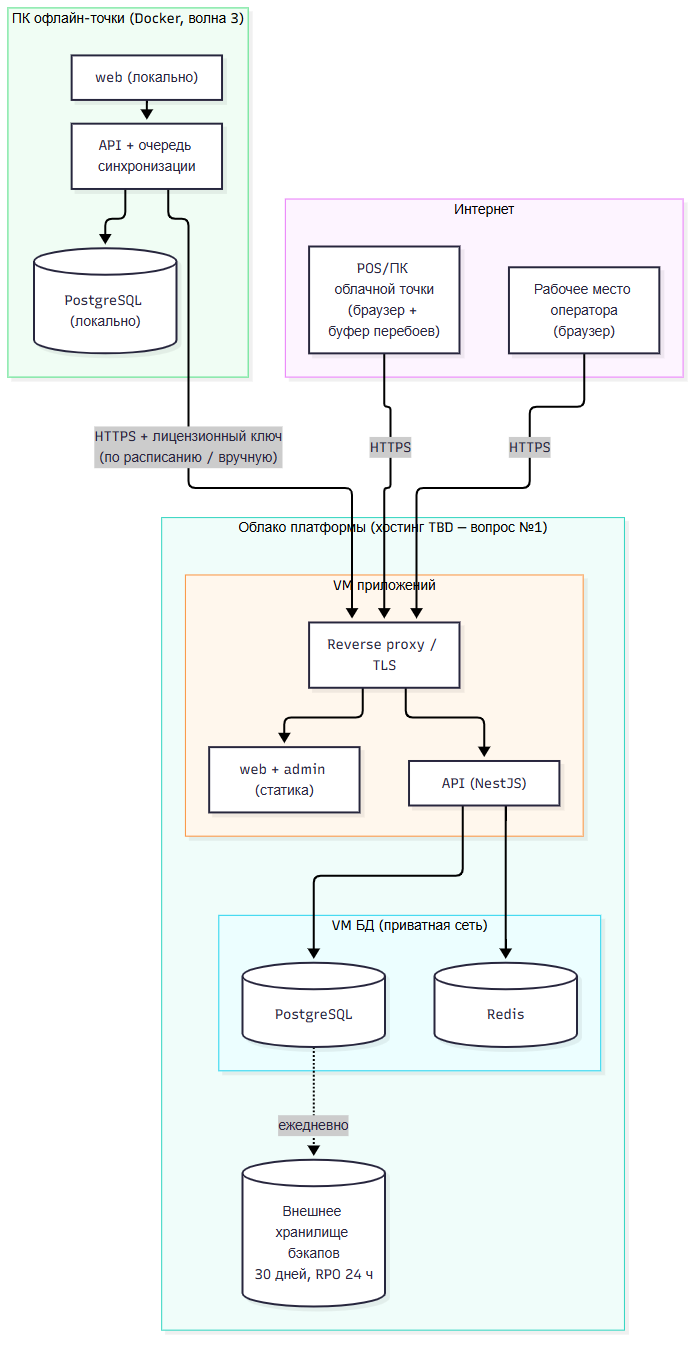
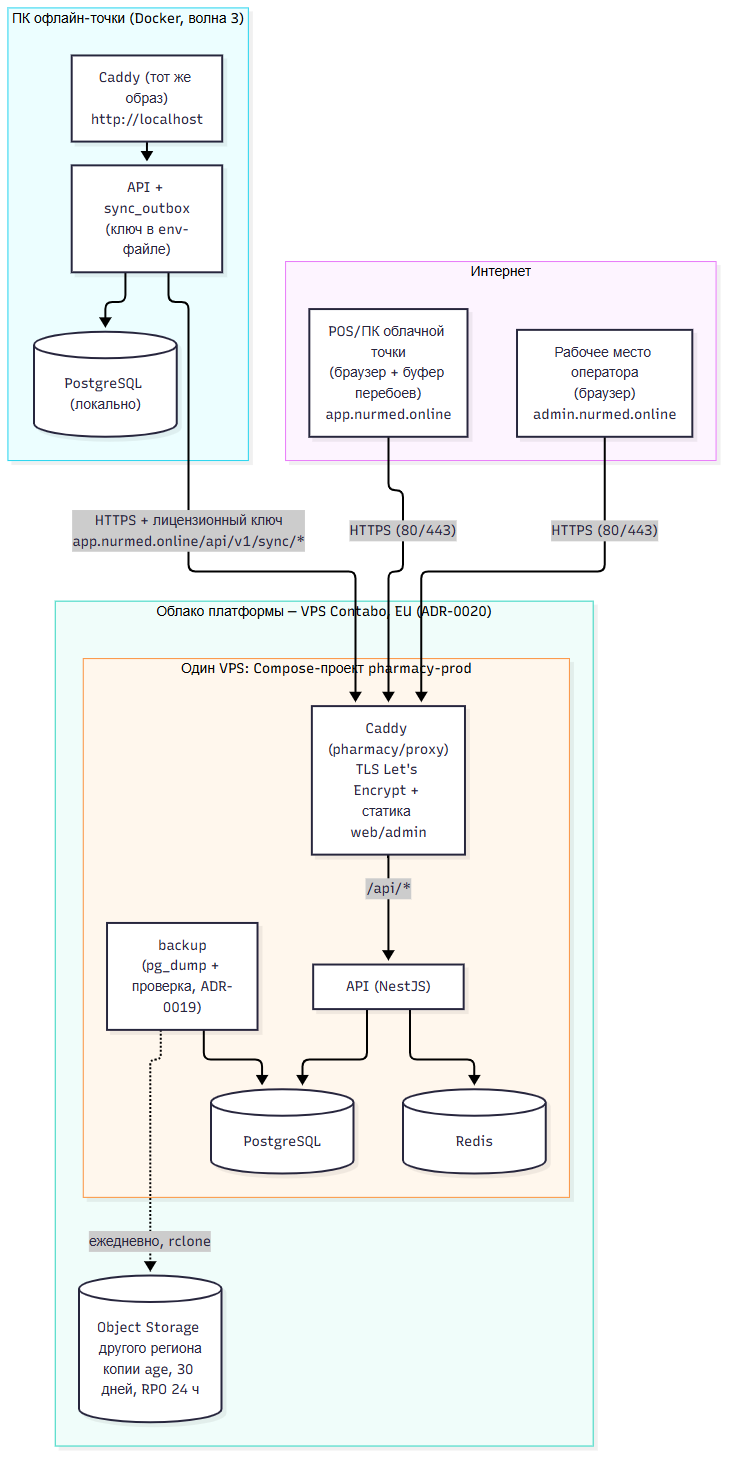
docs: accept ADR-0012 (Caddy) and ADR-0020 (hosting) — APPROVAL, stack.md, C4 deployment

diff --git a/docs/architecture/APPROVAL.md b/docs/architecture/APPROVAL.md
@@ -50,4 +50,6 @@
 | 2026-10-20 | Спецификация `2026-10-20-data-import-design.md` (решения F1–F22): загрузка каталога, начальных остатков точки и поставщиков из `.xlsx` / `.csv` — разбор в браузере, на API типизированные строки, всё или ничего, проверка и загрузка с `Idempotency-Key`, остатки — черновики НО по 500 строк; поправка ADR-0015 — своё чтение `.xlsx` и `.csv` в браузере на `DecompressionStream` и `DOMParser`, без библиотек; поправка модели данных 06 — `import_jobs` хранит только выполненные загрузки (без `status`, `errors` и уникальности по хэшу); журнал `ImportJobs` в `core/imports` | APPROVED | Утверждено архитектором 2026-10-20 вместе со спецификацией; реализация — одним PR |
 | 2026-10-21 | ADR-0019 — резервное копирование облачной БД и спецификация `2026-10-21-db-backups-design.md` (решения B1–B16): ежедневная логическая копия (`pg_dump -Fc` + роли без паролей) сервисом compose `backup` на образе `pharmacy/postgres` в test и prod, проверка каждой копии восстановлением во временном экземпляре, хранение 30 дней в `BACKUP_DIR`, `unhealthy` без проверенной копии 26 ч, защита пустой базы, `stack restore` рядом с переименованием; роль `pharmacy_backup` (LOGIN, BYPASSRLS, `pg_read_all_data`, не суперпользователь) — исключение из правила ADR-0013 «без BYPASSRLS» | APPROVED — accepted | Блокер пилота № 2; копия за пределы хоста и шифрование копий — вместе с хостингом (вопрос № 1), до prod |
 | 2026-10-21 | Спецификация `2026-10-21-pos-offline-limits-design.md` (решения P1–P18): касса PR 3 — пределы буфера (24 ч / 500 операций, ПКУ 8 ч / 20 чеков — параметры сети в `tenant_settings`, в снимке каталога), ПКУ без связи в пределах, остановка операций по возрасту входа кассира, локальный номер чека в смене и код (последние 8 символов id) для поиска при возврате, колонка «Получено» журнала ПКУ, срок хранения рецептов на экране настроек и очистка данных рецептов по сроку (триггер `controlled_sale_records` допускает только очистку трёх колонок, конверты `sync_inbox`); поправка ADR-0008 — досылка буфера под терминалом (device-cookie на четырёх маршрутах буфера, автор держал терминал в момент операции ±5 минут, вход не старше предела буфера, иначе 422 `author_session_missing`); поправка ADR-0013 — первая периодическая задача облака: таймер процесса API раз в час «по тенанту в цикле» (`app/platform/retention`, порты `PrescriptionRetention`, `InboxRetention`); поправка ADR-0015 — уточнение решений 2026-09-30 о пределах, сессии автора, досылке с экрана входа и локальном номере | APPROVED | Архитектор проекта, 2026-10-21 |
+| 2026-10-21 | ADR-0020 — хостинг облачной части на пилоте: один VPS Contabo Cloud VPS 6 (100 ГБ NVMe, EU — Германия) со всем Compose-проектом `pharmacy-prod`, домен `nurmed.online` (`app.`, `admin.`, apex → `app.`), базовая защита хоста, копии БД вне хоста — шифрование `age` и выгрузка `rclone` в Contabo Object Storage другого региона, выкладка образами через `docker save`/`load` до ADR о CD | APPROVED — accepted | Закрывает вопрос № 1 stack.md при условии письменного согласия юриста на хранение данных за пределами РТ (иначе — местный ЦОД той же схемой); дополняет ADR-0019 |
+| 2026-10-21 | ADR-0012 — reverse proxy и статика: Caddy 2.11, web и admin на поддоменах одного домена, статика в образе proxy; решения по спорным моментам — раздел «Принятие (2026-10-21)» ADR | APPROVED — accepted | Принят после выбора хостинга (ADR-0020); реализация — в том же PR |
 | 2026-10-22 | Уточнения по ревью безопасности (дополнение `reviews/2026-10-22-security-review-addendum.md`): ADR-0008, поправка 2026-10-21, п. 2 — у открытия смены под терминалом момент не раньше закрытия последней смены терминала (Z1; У17 спецификации `2026-10-21-pos-offline-limits`); поправка ADR-0013 2026-10-22 — `resolve_license_key` ищет по `key_id` и отдаёт `key_hash` и времена событий лицензии, в том числе блокировки сети; поправка ADR-0014 2026-10-22 — льготный период лицензии от самого раннего наступившего события (срок, отзыв, закрытие точки, блокировка сети), блокировка — от `tenants.blocked_at`, без времени — приём закрыт | APPROVED | Утверждено архитектором 2026-10-22; PR `fix/security-review-shift-license` |

diff --git a/docs/architecture/stack.md b/docs/architecture/stack.md
@@ -60,6 +60,8 @@
 | Доступ к данным / миграции | Kysely + `pg`, SQL-миграции node-pg-migrate | ADR-0006 | Инварианты (RLS на транзакцию, FOR UPDATE, ON CONFLICT, append-only) SQL-природные; spike: нет путей утечки данных чужого тенанта, чистый JS для офлайн-образа | Prisma 7, TypeORM 1.x, MikroORM 7 — сравнены spike'ом, см. ADR-0006 <!-- docs-check: ok --> |
 | Тесты и CI | Jest, Playwright, axe; GitHub Actions (гейты PR, nightly audit/Trivy, Dependabot) | ADR-0009 | Автоматические гейты инвариантов (изоляция тенантов, идемпотентность, атомарность чека) на каждом PR; дифференцированные пороги покрытия | Ручной прогон перед PR, Testcontainers, self-hosted раннеры — см. ADR-0009 |
 | Контейнеризация | Docker (офлайн-дистрибутив, test/prod, локальная среда) | ADR-0005 | Требование ТЗ: офлайн-точка = Docker-образ на ПК точки (Windows 10/11 + WSL2, Linux); воспроизводимые среды | Нативная установка служб — хрупкая, противоречит ТЗ |
+| Reverse proxy и статика | Caddy 2.11: TLS (Let's Encrypt), статика web/admin в образе `pharmacy/proxy`, `/api` → API | ADR-0012 | Одна конфигурация для облака, локальных test/prod и офлайн-точки; автоматический HTTPS без отдельного ACME-клиента | nginx, Traefik, HAProxy, раздача из NestJS — см. ADR-0012 |
+| Хостинг (пилот) | Один VPS Contabo Cloud VPS 6 (EU), домен `nurmed.online`; копии БД вне хоста — `age` + `rclone` в Object Storage | ADR-0020 | Ресурсов хватает на нагрузку ТЗ; топология Compose не меняется | Два VPS, местный ЦОД, автокопии провайдера — см. ADR-0020 |
 
 ## 4. Интеграции
 
@@ -78,12 +80,13 @@
 | Что | Версия | Дата |
 |---|---|---|
 | Шаблон ai-project-start | 0.2.2 | |
+| Caddy (образ `caddy:2.11.7-alpine`, по digest) | 2.11.7 | 2026-10-21 |
 
 ## 6. Открытые вопросы и риски
 
 | # | Вопрос/риск | Кто закрывает | Срок |
 |---|---|---|---|
-| 1 | Место хостинга облачной части (юридическая проверка локализации ПДн в Таджикистане). **Предложено 2026-10-21 — ADR-0020 (proposed):** один VPS Contabo (EU, Германия), домен `nurmed.online`, копии БД вне хоста; условие — согласие юриста на хранение данных за пределами РТ | Заказчик + юристы; ADR-0020 — архитектор проекта | До развёртывания прод-среды волны 1 |
+| 1 | ~~Место хостинга облачной части~~ — **ЗАКРЫТО 2026-10-21** (ADR-0020): один VPS Contabo (EU, Германия), домен `nurmed.online`; условие ввода в эксплуатацию — письменное согласие юриста на хранение данных за пределами РТ, иначе местный ЦОД той же схемой | Архитектор проекта; согласие — заказчик + юристы | До развёртывания прод-среды пилота |
 | 2 | Перечень препаратов ПКУ и состав обязательных полей рецепта | Заказчик | До начала разработки W3-07 |
 | 3 | Законодательные ограничения на возврат лекарств в РТ (срок возврата, возврат без рецепта) | Заказчик + юристы | До релиза волны 1 |
 | 4 | Механика автоскидки по приближающемуся сроку годности партии | Заказчик + команда | Пострелиз (вне MVP) |
@@ -95,4 +98,4 @@
 | 10 | ~~Nx как инструмент монорепо~~ — **ЗАКРЫТО 2026-09-29** (ADR-0002, ADR-0010) | Архитектор проекта | закрыт |
 | 11 | ~~Модель авторизации~~ — **ЗАКРЫТО 2026-09-30** (ADR-0018) | Архитектор проекта | закрыт |
 | 12 | Отказ от мультивалютности и автозагрузки курсов НБТ (ADR-0016) — отступление от ТЗ, согласовать с заказчиком <!-- docs-check: ok --> | Заказчик + архитектор проекта | До приёмки волны 1 |
-| 13 | `TRUST_PROXY` (число reverse proxy перед API, 0–5, по умолчанию 0) — обязательная часть выкладки за reverse proxy ADR-0012: без него `req.ip` — адрес прокси, и все ключи по IP (throttler гостя, входа, активации, `ip` в аудите входа) превращаются в один общий лимит платформы; неверное (завышенное) значение даёт подделку `X-Forwarded-For`. Задаётся в env-файле среды вместе с развёртыванием прокси; не новая технология, ADR не нужен | Архитектор проекта | Вместе с принятием ADR-0012 |
+| 13 | ~~`TRUST_PROXY`~~ — **ЗАКРЫТО 2026-10-21** (ADR-0012): за proxy Caddy без балансировщика хостинга — `TRUST_PROXY=1` в env-файлах test и prod; завышенное значение даёт подделку `X-Forwarded-For`, заниженное сливает всех клиентов в один лимит | Архитектор проекта | закрыт |

diff --git a/docs/architecture/adr/0012-reverse-proxy-i-statika.md b/docs/architecture/adr/0012-reverse-proxy-i-statika.md
@@ -1,6 +1,6 @@
 # ADR-0012: Reverse proxy и раздача статики web/admin — Caddy, одна конфигурация для облака и офлайн-точки
 
-- **Статус:** proposed
+- **Статус:** accepted (2026-10-21, архитектор проекта — APPROVAL.md)
 - **Дата:** 2026-09-29
 - **Авторы:** Zohid Saidov (z.saidov@eskhata.com), команда проекта Pharmacy (черновик подготовлен с помощью AI)
 - **Принимает:** архитектор проекта (docs/architecture/APPROVAL.md)
@@ -350,3 +350,22 @@ import /etc/caddy/profiles/{$PROXY_PROFILE}.caddy
 5. Локальные test/prod: HTTPS на `*.localhost` с `tls internal` (проверяется `__Host-`) или
    `http://localhost` с офлайн-именами cookie (проще, но «боевой» путь cookie не проверяется до
    облака).
+
+## Принятие (2026-10-21)
+
+Принят архитектором проекта вместе с ADR-0020 (хостинг: один VPS Contabo, домен `nurmed.online`). Решения по спорным
+моментам:
+
+1. **Caddy**, не nginx: хостинг TLS-балансировщика не даёт, автоматический Let's Encrypt нужен.
+2. Web — на `app.nurmed.online`, admin — на `admin.nurmed.online`, apex — редирект на `app.` (ADR-0020). Отдельный
+   регистрируемый домен админки и allowlist IP операторов на MVP не вводятся. Вход «от имени» не реализуется
+   (ADR-0008), поэтому CSP админки — `form-action 'self'` без origin web. Proxy пропускает на `admin.` только
+   `/api/v1/operator/*`, на `app.` — всё, кроме него (эшелон; основная проверка — в API).
+3. Лимиты тела: `/api/*` — 1 MB, `/api/v1/sync/*` — 4 MB (батч ADR-0014 — 2 МБ JSON после распаковки, проверяет
+   body-parser API); таймауты — как в таблице «Параметры proxy».
+4. `script-src 'unsafe-inline'` на MVP допустим; хеши inline-скриптов — после MVP.
+5. Локальные test/prod — HTTPS на `*.localhost` с `tls internal` (проверяется «боевой» путь cookie `__Host-*`); профиль
+   `local` повторяет `cloud` без редиректа apex.
+
+Уточнения реализации к разделу «Решение»: `*.map` исключаются и из манифеста Service Worker (`build-sw.mjs`), иначе
+установка воркера падает на отсутствующем файле; `.dockerignore` уже исключает `docker/env` и `*.env`.

diff --git a/docs/architecture/adr/0020-hosting-contabo-vps.md b/docs/architecture/adr/0020-hosting-contabo-vps.md
@@ -1,6 +1,6 @@
 # ADR-0020: Хостинг облачной части на пилоте — один VPS Contabo, домен nurmed.online, копии БД вне хоста
 
-- **Статус:** proposed
+- **Статус:** accepted (2026-10-21, архитектор проекта — APPROVAL.md)
 - **Дата:** 2026-10-21
 - **Авторы:** Zohid Saidov (z.saidov@eskhata.com), команда проекта Pharmacy (текст подготовлен с помощью AI)
 - **Принимает:** архитектор проекта (docs/architecture/APPROVAL.md)
